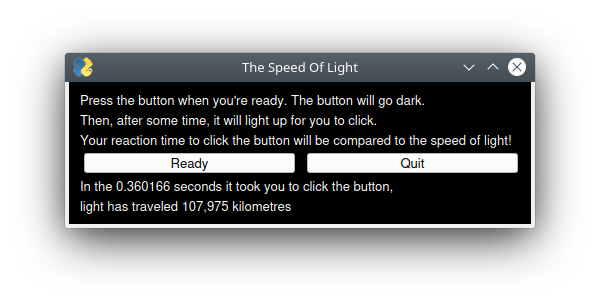
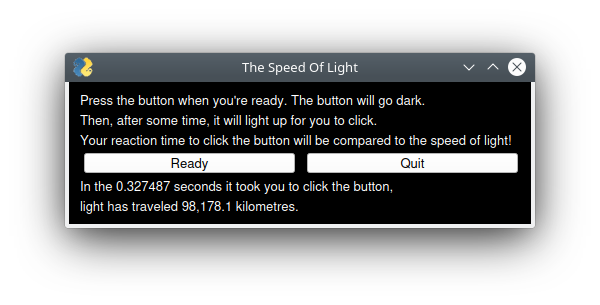
end every sentence with a period

Changed region(s): [[0.3, 0.6492, 0.51, 0.7082], [0.21, 0.5902, 0.3, 0.6492]]

diff --git a/speed.py b/speed.py
@@ -20,7 +20,7 @@ layout = [  [cute.Text("Press the button when you're ready. The button will go d
             [cute.Text("Then, after some time, it will light up for you to click.")],
             [cute.Text("Your reaction time to click the button will be compared to the speed of light!")],
             [cute.Button("Ready", key="-BUTTON-"), cute.Quit()],
-            [cute.Text("Results will appear here", key="-RES1-")],
+            [cute.Text("Results will appear here.", key="-RES1-")],
             [cute.Text("", key="-RES2-")]]
 
 window = cute.Window("The Speed Of Light", layout)
@@ -75,7 +75,7 @@ while True:
             lightDistance = (reactionTime * LIGHTSPEED)/1000
 
             window["-RES1-"].update("In the {0:n} seconds it took you to click the button,".format(reactionTime))
-            window["-RES2-"].update("light has traveled {0:n} kilometres".format(lightDistance))
+            window["-RES2-"].update("light has traveled {0:n} kilometres.".format(lightDistance))
             window["-BUTTON-"].update("Ready")
             state.pop(0)
             state.append(State.READY)
